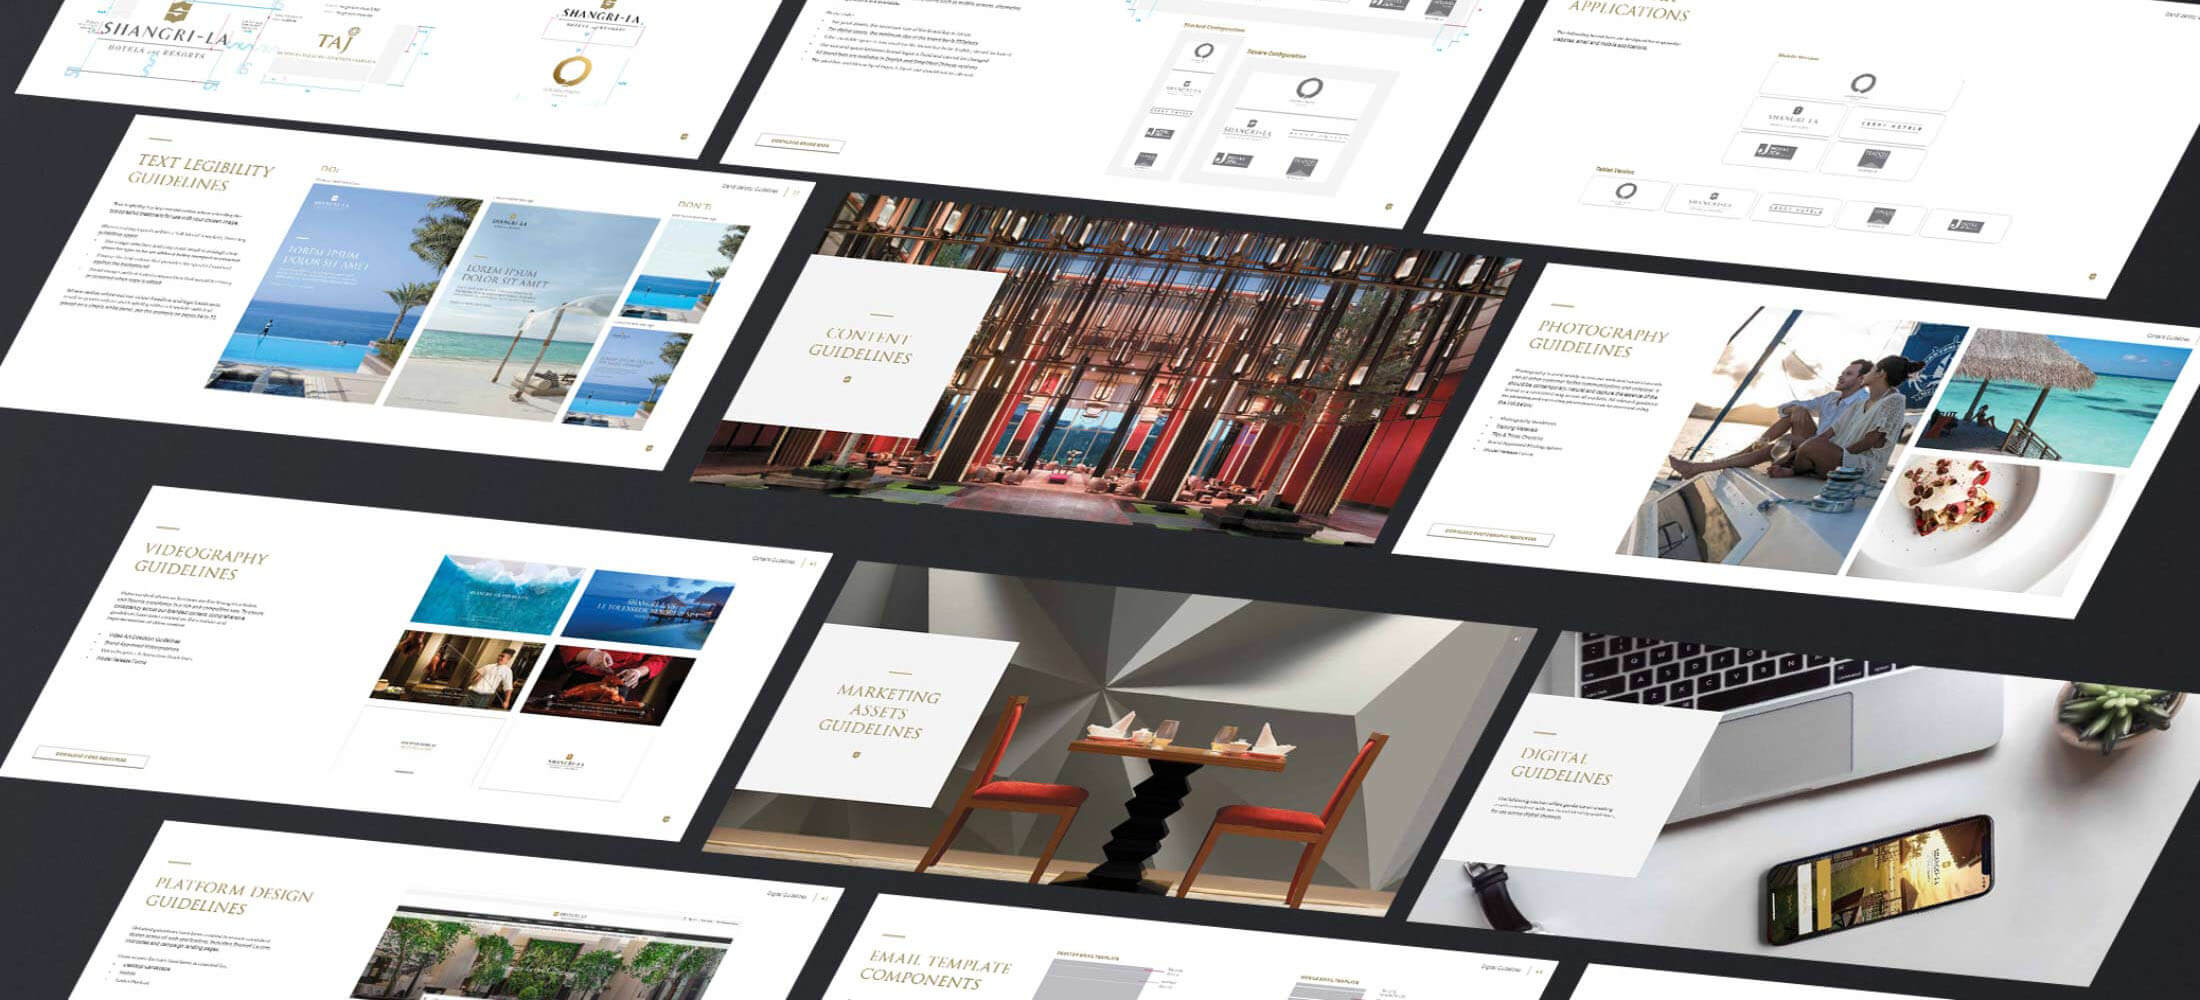
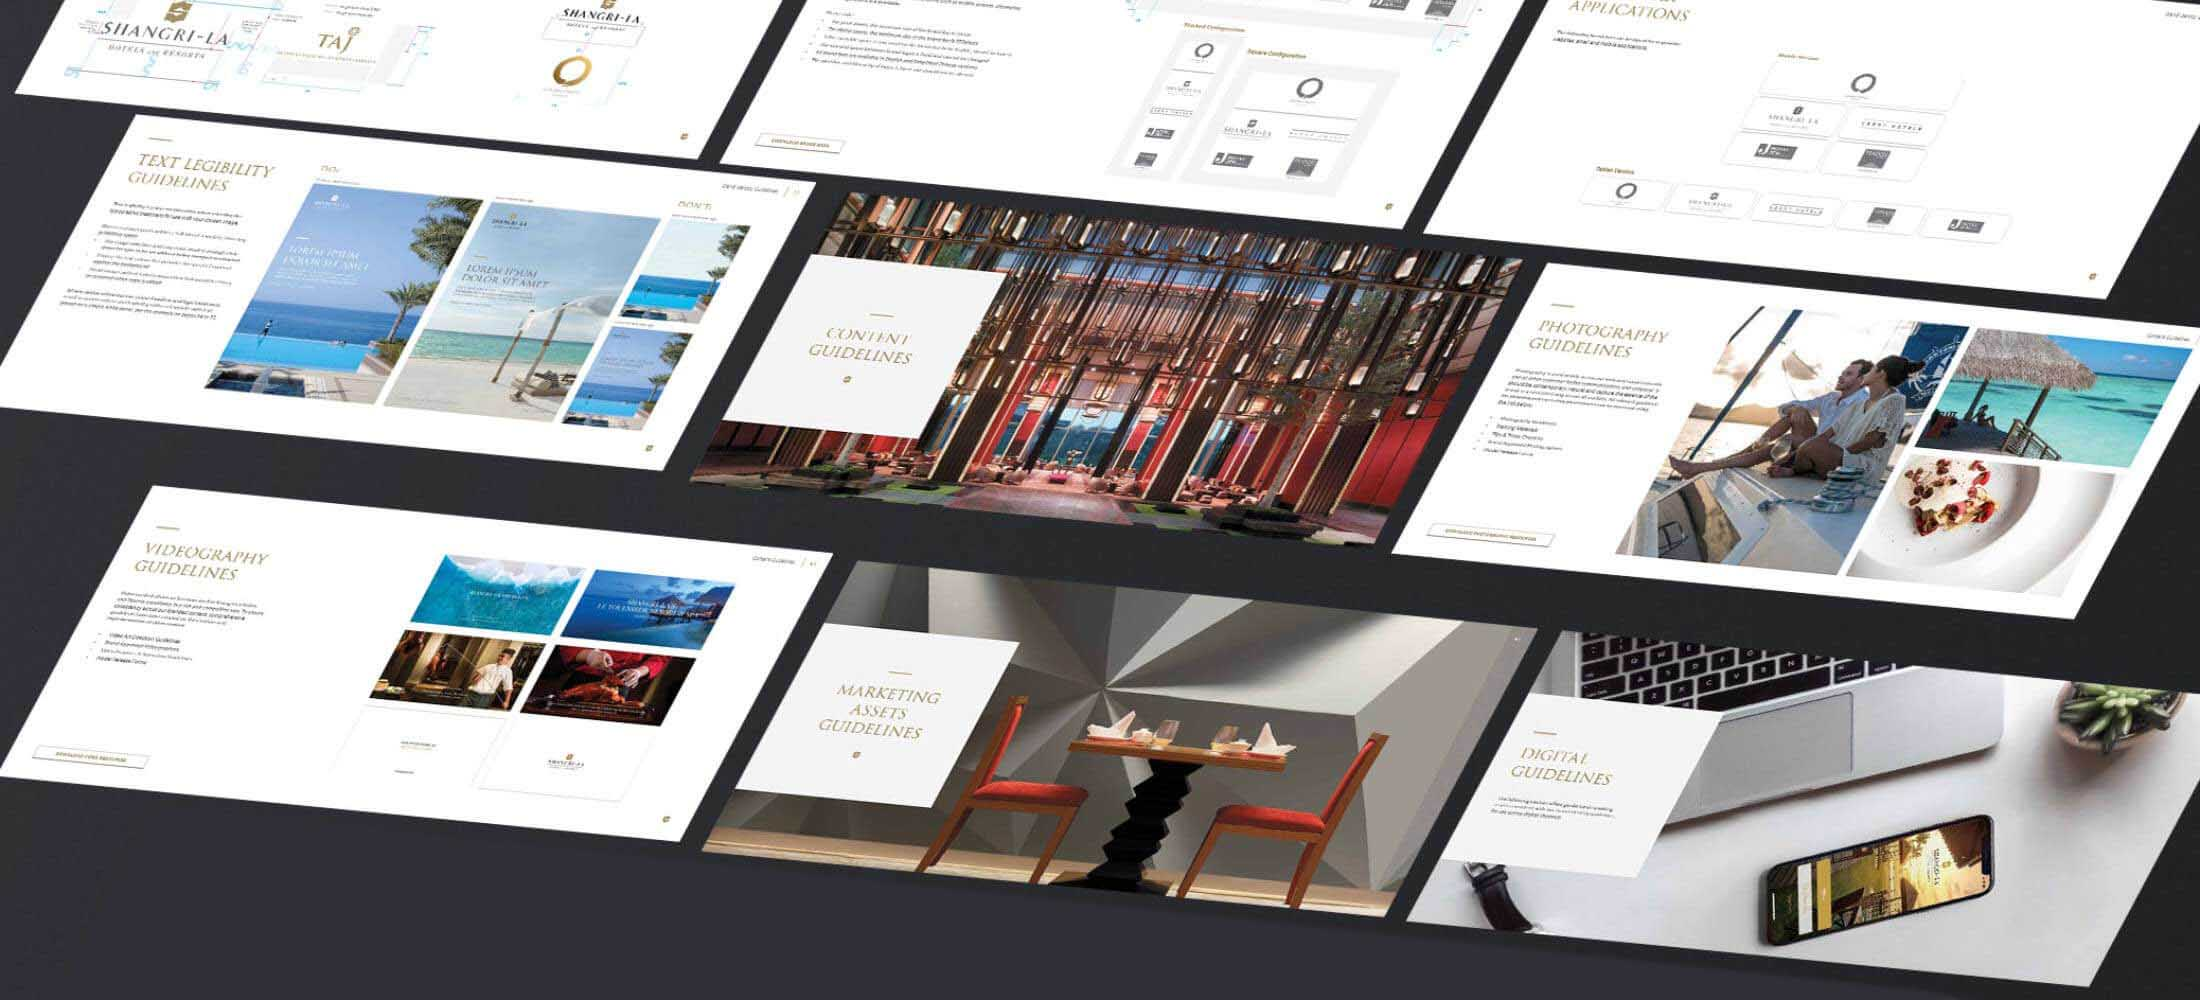
shangrila Added Booklet

Changed region(s): [[0.0309, 0.806, 0.8964, 1.0]]

diff --git a/Eric-Chuan-shangrila.html b/Eric-Chuan-shangrila.html
@@ -454,6 +454,18 @@
         <div class="photo-item">
             <img src="assets/companies/shangrila/Eric-Chuan-shangrila05.jpg" alt="Shangri-La Hotels & Resorts">
         </div>
+        <!-- HEYZINE FLIPBOOK - FULL WALL TO WALL -->
+                <div class="photo-item">
+                    <iframe 
+                        allowfullscreen="allowfullscreen" 
+                        allow="clipboard-write" 
+                        scrolling="no" 
+                        class="fp-iframe" 
+                        style="width: 100%; height: 600px; border: none; display: block;" 
+                        src="https://heyzine.com/flip-book/f8a3ce1b49.html">
+                    </iframe>
+                </div>
+                <!-- End Flipbook -->
         <div class="photo-item">
             <img src="assets/companies/shangrila/Eric-Chuan-shangrila06.jpg" alt="Shangri-La Hotels & Resorts">
         </div>
